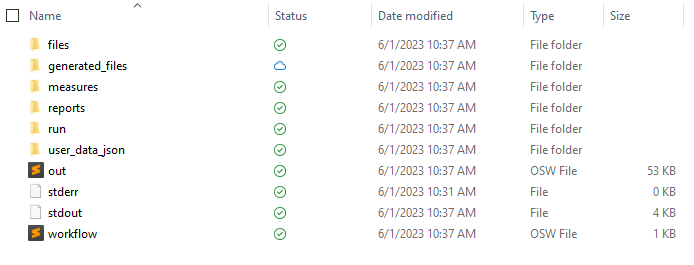
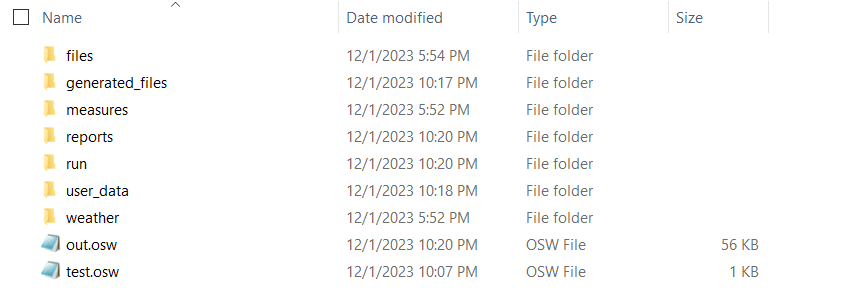
versioni updates

diff --git a/content/get_start/os_cli/run_the_measure.md b/content/get_start/os_cli/run_the_measure.md
@@ -17,7 +17,8 @@ Before running any measures, make sure you have OpenStudio SDK installed. The in
 
 #### B. Run the measure with OS SDK using CLI
 
-There are 5 parts in the process of running the measure. 
+There are 5 parts in the process of running the measure.
+
 1.  [**Download the PRM measure (prerequisite)**](#1-download-the-prm-measure)
 2.  [**Setup a local directory**](#2-setup-a-local-directory)
 3.  [**Edit OSW file**](#3-edit-osw-file)
@@ -49,7 +50,6 @@ The image below shows one way to setup the main directory and their correspondin
 
 ![Directory Setup](/BEM-for-PRM/get_start/os_cli/images/folder_structure.png?width=800px&align=left&classes=border)
 
-
 {{< line_break >}}
 
 ##### **3. Edit OSW file**
@@ -60,7 +60,7 @@ The OSW file can be structured as shown in the image below.
 > - Lines 4-5 define the measure path.
 > - Lines 9-14 contain arguments to be passed to the measure. A detailed description of the arguments can be found in the [API document](../../../user_guide/prm_api_ref/baseline_generation_api/).
 
-![OS Workflow Structure](/BEM-for-PRM/get_start/os_app/images/osw.JPG?width=600px&align=left&classes=border)
+![OS Workflow Structure](/BEM-for-PRM/get_start/os_app/images/osw.JPG?width=800px&align=left&classes=border)
 
 {{% notice tip %}}
 **Important Note:**
@@ -73,21 +73,21 @@ The directory names are not case sensitive. If you want to change the names of t
 
 - Open Command Prompt as an administrator.
 - Type the following command with paths to the **openstudio\bin**, **openstudio-standard\lib** and the **OSW** directories.  
-  `C:\openstudio-3.6.0\bin\openstudio.exe run -w "[LOCAL_PATH]\workflow.osw"`
+  `C:\openstudio-3.7.0\bin\openstudio.exe run -w "[LOCAL_PATH]\workflow.osw"`
 
 **Example:**
 
 ```ruby
-C:\openstudio-3.6.0\bin\openstudio.exe  run -w "C:\Users\sample_user\baselinePRM\test.osw"
+C:\openstudio-3.7.0\bin\openstudio.exe  run -w "C:\Users\sample_user\baselinePRM\test.osw"
 ```
 
 {{% notice tip %}}
-If the openstudio command is not recognized, either add the executable to your environment PATH or add the full path to the `openstudio-3.6.0\bin` directory.
+If the openstudio command is not recognized, either add the executable to your environment PATH or add the full path to the `openstudio-3.7.0\bin` directory.
 It is advised to avoid spaces in file and directory names. Use quotation marks when specifying long file names or paths with spaces.
 {{% /notice %}}
 
 {{% notice tip %}}
-The OpenStudio SDK version needs to be **3.5.0** or later.
+The OpenStudio SDK version needs to be **3.7.0** or later.
 {{% /notice %}}
 
 {{< line_break >}}
@@ -107,17 +107,18 @@ Once the workflow is completed **successfully**:
 - A `run` directory is generated which contains all input/output files.
 - A `reports` directory is created which contains energyplus's standard html report.
 - A `generated_files` directory contains all the generated models and simulation information.
-- A `user_data_json` directory contains all user provided data in `json` format.
+- A `user_data` directory contains all user provided data in `json` format.
 
-![Measure Output Structure](/BEM-for-PRM/get_start/os_cli/images/output_files.PNG?width=800px&align=left&classes=border)
+![Measure Output Structure](/BEM-for-PRM/get_start/os_cli/images/output_files.png?width=800px&align=left&classes=border)
 
 {{<line_break>}}
 
-#### Optional Steps  
+#### Optional Steps
+
 This instruction is provided for users who want to access the latest features or bug fixes that are not accessible in the latest OpenStudio SDK.
 
-Follow the above steps by replacing Step 2 and 4 as follows: 
+Follow the above steps by replacing Step 2 and 4 as follows:
 
 {{% notice info %}}
-The measures selected on this tab will not run until you run your model, unlike the *_Apply Measure Now_* option. 
+The measures selected on this tab will not run until you run your model, unlike the _*Apply Measure Now*_ option.
 {{% /notice %}}

diff --git a/content/get_start/os_app/get_os_app.md b/content/get_start/os_app/get_os_app.md
@@ -8,7 +8,7 @@ pre: "<b>- </b>"
 
 {{< line_break >}}
 
-#### A. Install the OpenStudio App following these steps. 
+#### A. Install the OpenStudio App following these steps.
 
 - Download the latest release of OpenStudio application from [OpenStudio Coalition GitHub page](https://github.com/openstudiocoalition/OpenStudioApplication/releases). Select the installer that matches your operating system.
 - The OpenStudio engine as well as other components (e.g., EnergyPlus, Ruby API, etc..) are included in the installation package.
@@ -16,10 +16,8 @@ pre: "<b>- </b>"
 
   The following table shows a compatibility matrix for OpenStudio application and "Create ASHRAE 90.1-2019 PRM Model" measure version:
 
-  | OpenStudio App | OpenStudio SDK | EnergyPlus | OpenStudio Release Date |     PRM measure     | 
-  | :------------: | :------------: | :--------: | :---------------------: | :-----------------: |
-  |     v1.6.0     |     3.6.1      |   23.1.0   |       05/09/2023        |        Beta         |
+  | OpenStudio App | OpenStudio SDK | EnergyPlus | OpenStudio Release Date | PRM measure |
+  | :------------: | :------------: | :--------: | :---------------------: | :---------: |
+  |     v1.7.0     |      3.7       |   24.1.0   |       11/09/2023        |   v0.1.0    |
 
-  <!-->  |     v1.7.0     |     3.7.0      |   24.1.0   |       11/09/2023        |       v1.0.0        | Move it to the top later and check the versions --> 
-
-   You can also check the OS App Version Matrix [here](https://github.com/openstudiocoalition/OpenStudioApplication/wiki/OpenStudio-Application-Version-Compatibility-Matrix). 
+  You can also check the OS App Version Matrix [here](https://github.com/openstudiocoalition/OpenStudioApplication/wiki/OpenStudio-Application-Version-Compatibility-Matrix).

diff --git a/content/get_start/os_cli/get_openstudio_sdk.md b/content/get_start/os_cli/get_openstudio_sdk.md
@@ -19,11 +19,6 @@ pre: "<b>- </b>"
 
   | OpenStudio SDK | OpenStudio-Standard | EnergyPlus | OpenStudio Release Date | PRM measure |
   | :------------: | :-----------------: | :--------: | :---------------------: | :---------: |
-  |     3.6.0      |       v0.4.0        |   23.1.0   |       05/09/2023        |     Beta    |
+  |      3.7       |       v0.5.0        |   24.1.0   |       11/09/2023        |   v0.1.0    |
 
   You can also check the OS SDK Version Matrix [here](https://github.com/NREL/OpenStudio/wiki/OpenStudio-SDK-Version-Compatibility-Matrix).
-
-  <!-- Add this line above after Nov release after confirming the versions 
-  |     3.7.0     |     v0.5.0      |   24.1.0   |       11/09/2023        |       v1.0.0        |
-  -->
-

diff --git a/content/user_guide/add_compliance_data/water/_index.md b/content/user_guide/add_compliance_data/water/_index.md
@@ -3,7 +3,7 @@ title = "Water"
 date = 2022-09-21T15:04:27-07:00
 weight = 326
 chapter = true
-draft = true
+draft = false
 pre = "<b>  </b>"
 +++
 
@@ -11,9 +11,8 @@ pre = "<b>  </b>"
 
 {{<line_break>}}
 
-A building is 
+This category covers:
 
-This category covers: 
->- Water Connections
->- Water Equipment
->- Water Equip Definition
+> - Water Connections
+> - Water Equipment
+> - Water Equip Definition

diff --git a/content/overview/features/planned_features.md b/content/overview/features/planned_features.md
@@ -8,8 +8,11 @@ pre: "<b>- </b>"
 
 {{< line_break >}}
 
-#### Coming Soon... 
-<!-- 
+#### New Features:
+
+- **Support SHW baseline modeling:** This feature will support creating a single or mulitple service hot water loops based on building types.
+
+<!--
 Example for future reference
 
 Areas of Planned FY20 Development
